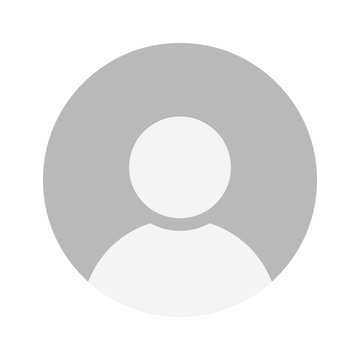
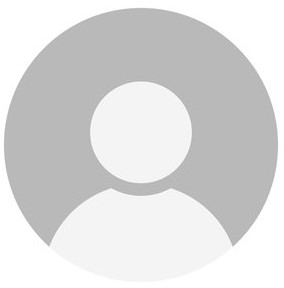
agents activity page page redesign.

Changed region(s): [[0.0, 0.0, 0.9859, 0.875], [0.3099, 0.2812, 0.7042, 0.7188]]

diff --git a/src/app/partial/booth-management/agents-activity/agents-activity.component.html b/src/app/partial/booth-management/agents-activity/agents-activity.component.html
@@ -7,11 +7,6 @@
         </div>
         <div class="col-sm-10 text-end">
             <div class="row g-2">
-                <div class="col-sm-auto">
-                    <span class="badge bg-danger py-2 fw-normal rounded-pill px-4 mt-1">
-                        This Agent is Blocked
-                    </span>
-                </div>
                 <div class="col-sm">
                     <input type="date" class="form-control">
                 </div>
@@ -39,10 +34,19 @@
             <div class="card">
                 <div class="card-body">
                     <div class="profile-info">
-                        <img src="assets/images/Profile-Photo.jpg">
-                        <h5>Agent Middle Name</h5>
-                        <p class="contact">+91-9876543210</p>
-                        <p class="contact">Address</p>
+                        <div class="d-flex mb-3">
+                            <div class="flex-shrink-0">
+                                <img src="assets/images/Profile-Photo.jpg">
+                            </div>
+                            <div class="flex-grow-1 ms-3 pt-2">
+                                <h5>Agent Middle Name</h5>
+                                <p class="contact">+91-9876543210</p>
+                                <p class="contact">Address</p>
+                                <span class="badge bg-danger py-1 fw-normal rounded-pill px-3 mt-1">
+                                    This Agent is Blocked
+                                </span>
+                            </div>
+                          </div>                        
                         <div class="mb-3">
                             <small class="text-muted">Booths(s) Assigned :</small>
                             <p class="area">Bibwewadi, Kondhwa, Pune</p>
@@ -154,7 +158,21 @@
                         </div>
                     </div>
                 </div>
-                <div class="card-body">
+                <div class="card-body profile-info">
+                    <div class="row g-2 mb-3">
+                        <div class="col-sm-2">
+                            <a routerLink="#" class="card p-2 card-body shadow-none border box-link">
+                                <h5 class="card-title">2426</h5>
+                                <p class="card-text"> Families </p>
+                            </a>
+                        </div>
+                        <div class="col-sm-2">
+                            <a routerLink="#" class="card p-2 card-body shadow-none border box-link">
+                                <h5 class="card-title">2426</h5>
+                                <p class="card-text"> Voters </p>
+                            </a>
+                        </div>
+                    </div>
                     <table class="table table-hover mb-0">
                         <thead>
                             <tr>
@@ -177,9 +195,7 @@
                             </tr>
                             <tr>
                                 <td>2</td>
-                                <td>Kailash Rajendra Sanap
-                                    <img src="assets/images/new.gif">
-                                </td>
+                                <td>Kailash Rajendra Sanap</td>
                                 <td>12:35:25 PM</td>
                                 <td>132034645</td>
                                 <td>Male</td>
@@ -195,7 +211,7 @@
                             </tr>
                         </tbody>
                     </table>
-                </div>                
+                </div>
             </div>
 
             <div class="card">

diff --git a/src/app/partial/booth-management/agents-activity/agents-activity.component.css b/src/app/partial/booth-management/agents-activity/agents-activity.component.css
@@ -1,18 +1,16 @@
 .profile-info img{
-    width: 150px;
+    width: 90px;
     margin: 0 auto;
     display: flex;
     border-radius: 50%;
 }
 .profile-info h5{
-    text-align: center;
     color: var(--main-color);
 }
 .profile-info .contact{
-    text-align: center;
     color: #888;
     font-size: 0.85rem;
-    margin-bottom: 5px;
+    margin-bottom: 2px;
 }
 .profile-info .area{
     font-size: 0.9rem;
@@ -20,5 +18,15 @@
 .profile-info .card-text{
     font-size: 0.8rem;
     color: #888;
-    text-align: center;
+}
+.profile-info .box-link{
+    text-decoration: none;
+}
+.profile-info .box-link:hover{
+    text-decoration: none;
+    background-color: var(--main-color);
+}
+.profile-info .box-link:hover .card-title,
+.profile-info .box-link:hover .card-text{
+    color: #fff;
 }
